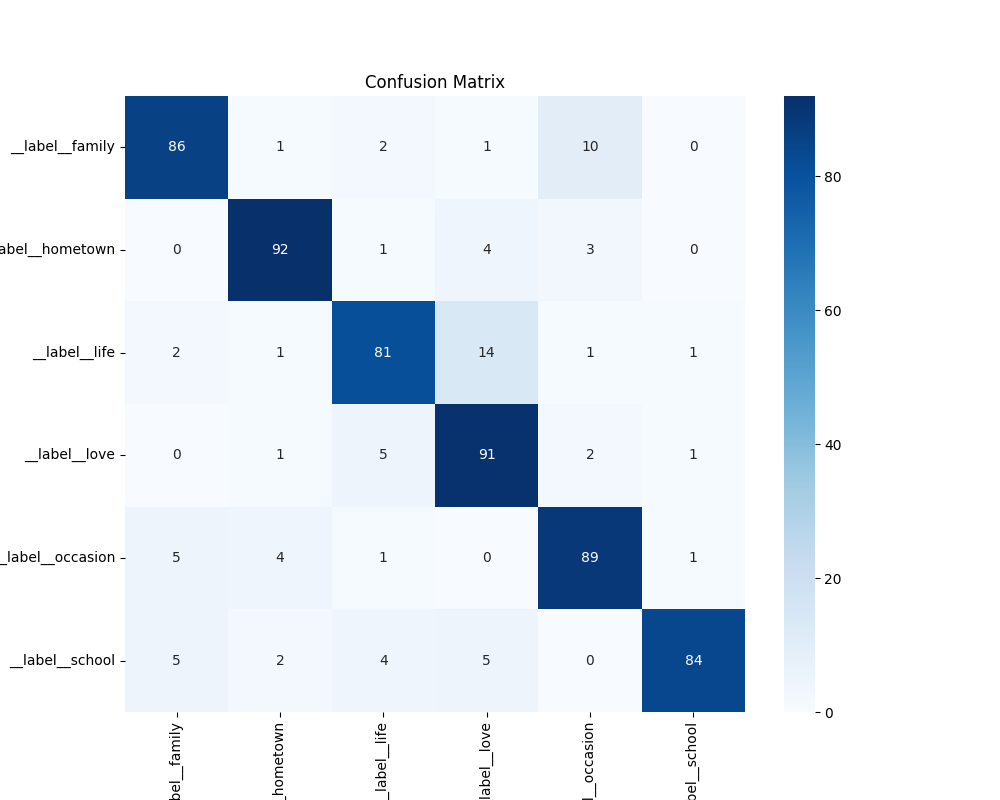
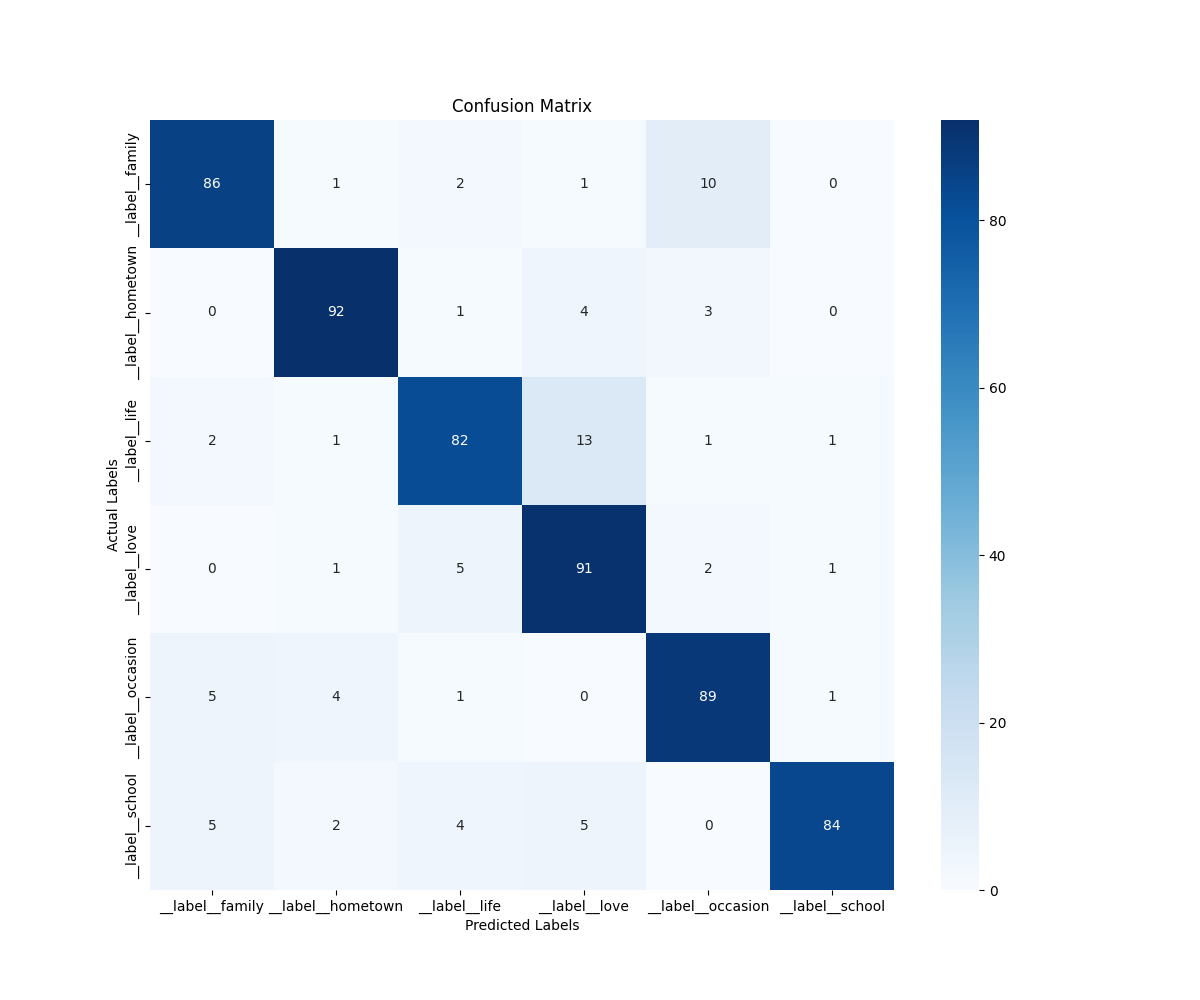
Lastest version

diff --git a/model_test_single.py b/model_test_single.py
@@ -6,21 +6,19 @@ model = fasttext.load_model("trained_models/model_1.bin")
 text_to_predict = "Ngắm em qua phone Anh chỉ ước được bên em ngay Để ta cùng nắm tay Đi dạo dưới biển Ánh mắt ấy tươi cười Cùng những điều em mê say Khiến anh như chết lặng vài giây Anh vẫn ngồi đây cầm guitar đàn Gửi cho em những thanh âm rộn ràng Qua mạng không dây nhưng sao hôm nay Đường truyền hơi chập chờn thế này Ah ah ah ah Ah ah ah ah Ah ah ah ah Wanna say Điều mơ ước giờ này Là mình được ở bên nhau Đôi môi sẽ cùng hàn gắn Hai tâm hồn Đừng lo lắng vì chập chờn Chập chờn thì không lâu Sẽ không lâu đâu babe Ah ah ah ah Ah ah ah ah ah Ah ah ah ah Ah ah ah ah ah ah ah Đi đâu mà vội vàng Ta cần có một chút nghỉ ngơi yeah You know, chẳng có một cách nào Khác ngoài hai chữ chờ đợi Chập chờn một chút không sao đâu babe Đôi khi làm đong đầy thêm Mà như mình nêm gia vị Vì anh luôn biết anh cũng ra gì Luôn mang tình yêu cộng thêm độ feel Điều mơ ước giờ này Là mình được ở bên nhau Đôi môi sẽ cùng hàn gắn Hai tâm hồn Đừng lo lắng vì chập chờn Chập chờn thì không lâu Sẽ không lâu đâu babe Điều mơ ước giờ này Là mình được ở bên nhau Đôi môi sẽ cùng hàn gắn Hai tâm hồn Đừng lo lắng vì chập chờn Chập chờn thì không lâu Sẽ không lâu đâu babe yeah yeah Ah ah ah ah Ah ah ah ah ah Ah ah ah ah Ah ah ah ah ah ah ah Hi world, I just wanna say I’m Dương Domic And thank you everybody For listening to my music Enjoy it Điều mơ ước giờ này Là mình được ở bên nhau Đôi môi sẽ cùng hàn gắn Hai tâm hồn Đừng lo lắng vì chập chờn Chập chờn thì không lâu Sẽ không lâu đâu babe Điều mơ ước giờ này Là mình được ở bên nhau Đôi môi sẽ cùng hàn gắn Hai tâm hồn Đừng lo lắng vì chập chờn Chập chờn thì không lâu Sẽ không lâu đâu babe Ah ah ah ah Ah ah ah ah ah Ah ah yeah yeah yeah yeah"
 
 def preprocess_vietnamese_lyrics(text: str) -> str:
-    # 1. Lowercase
+    # Lowercase
     text = text.lower()
-    # 2. Remove special characters (keep underscores/letters/digits/space)
-    text = re.sub(r"[^\w\s]", "", text)
-    # 3. Remove digits
+    # Remove special characters
+    text = re.sub(r"[^a-zA-Z0-9\s]", "", text)
+    # Remove digits
     text = re.sub(r"\d+", "", text)
-    # 4. Remove extra spaces
+    # Remove extra spaces
     text = re.sub(r"\s+", " ", text).strip()
-    # 5. Word segmentation (underscores for compounds)
-    # text = word_tokenize(text, format="text")
     return text
 
-text = preprocess_vietnamese_lyrics(text_to_predict)
+processed_text = preprocess_vietnamese_lyrics(text_to_predict)
 
-prediction = model.predict(text, k=-1, threshold=0.01)
+prediction = model.predict(processed_text, k=-1, threshold=0.05)
 
-print(f"Prediction for '{text}':")
+print(f"Prediction for '{processed_text}':")
 print(prediction) 

diff --git a/model_train.py b/model_train.py
@@ -3,7 +3,7 @@ import fasttext
 # Train the model
 model = fasttext.train_supervised(
     input="dataset/dataset.train",
-    lr=0.2,             # Lower learning rate is often better for OVA
+    lr=0.2,             # Learning rate
     epoch=25,           # The number of times each examples is seen
     wordNgrams=3,       # N-gram
     bucket=200000,      # allocate space for how many unique vectors for the n-grams.
@@ -12,8 +12,8 @@ model = fasttext.train_supervised(
     loss='softmax',     # Use used loss function
 )
 
-# Non-augmented: lr=0.5, ngram=2
-# Augmented: lr=0.2, ngram=3
+# Non-augmented: lr=0.7, epoch=30
+# Augmented: lr=0.2, epoch=25
 
 # model = fasttext.train_supervised(input="dataset/dataset.train", autotuneValidationFile='dataset/dataset.valid', autotuneMetric="f1:__label__life")
 

diff --git a/model_test.py b/model_test.py
@@ -52,7 +52,7 @@ labels = sorted(list(set(y_true)))
 cm = confusion_matrix(y_true, y_pred, labels=labels)
 
 # Plot the confusion matrix
-plt.figure(figsize=(10, 8))
+plt.figure(figsize=(12, 10))
 sns.heatmap(cm, annot=True, fmt='d', cmap='Blues', xticklabels=labels, yticklabels=labels)
 plt.title('Confusion Matrix')
 plt.ylabel('Actual Labels')
